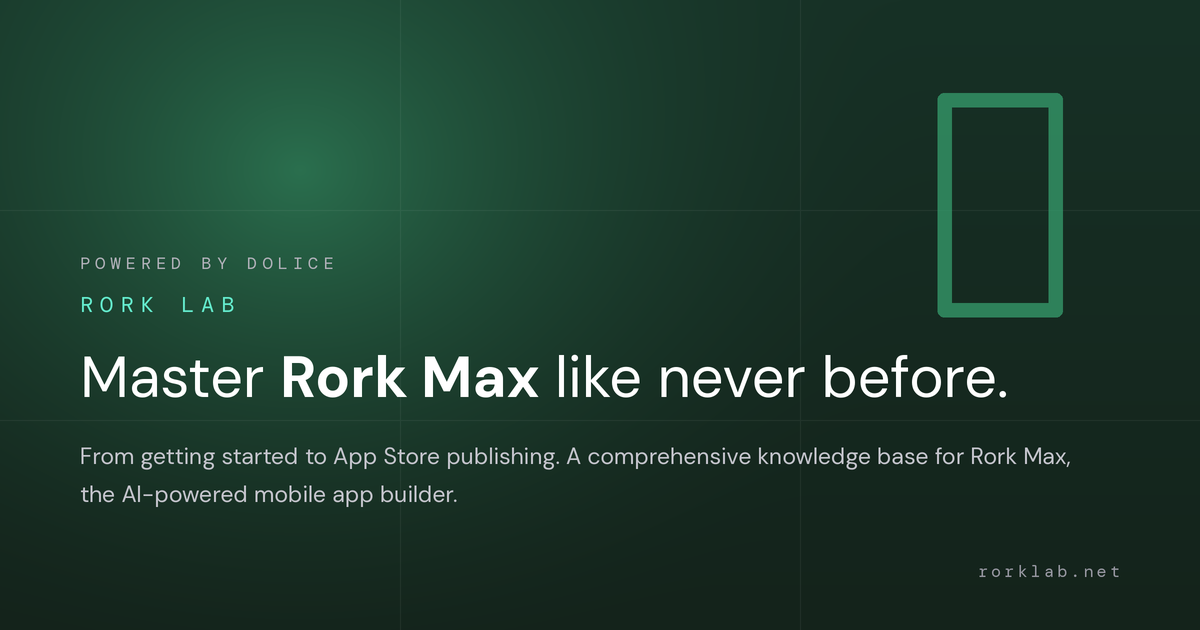
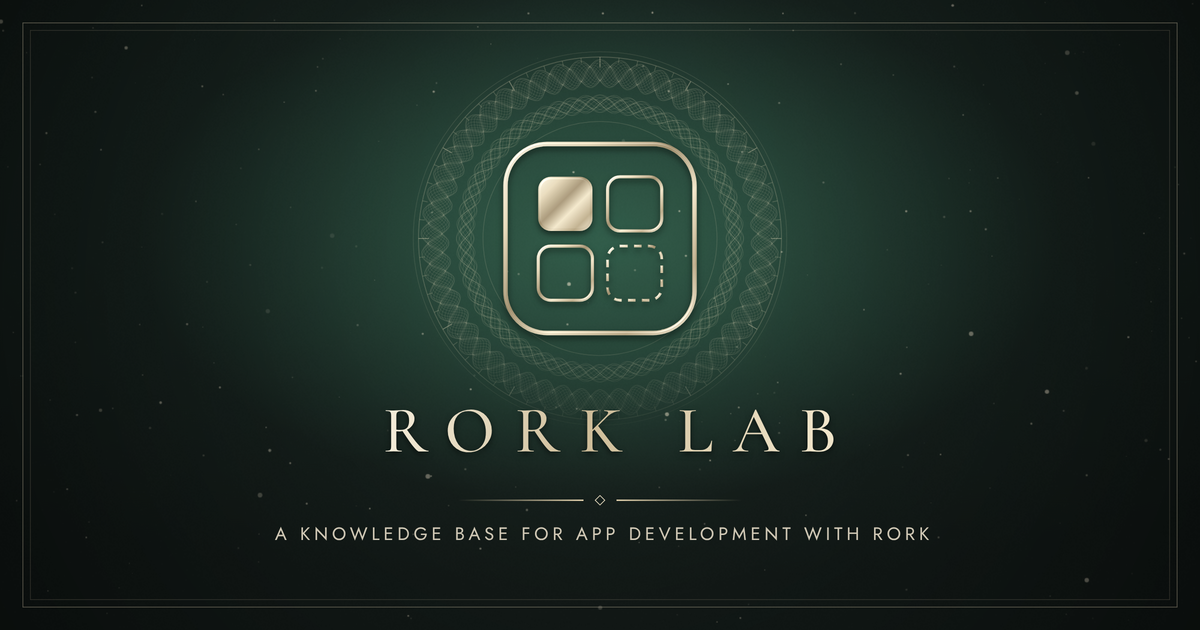
og: サイト共通 OGP を dolice.net の Labs カードと同じ意匠に差し替え（1200×630・日英）・?v=3 で SNS キャッシュ更新
Claude-Session: https://claude.ai/code/session_01HiCj6fCTc7KtopTq5qBR5S

diff --git a/src/lib/og.ts b/src/lib/og.ts
@@ -3,13 +3,16 @@ import ogArticles from "@/generated/og-articles.json";
 /**
  * OGP 画像（1200×630）。日英で別の画像を返す。
  * 旧 /og/default.png（1200×1200 正方形）は横長カードで下部の文字が切れるため 2026-10-23 に置き換え。
- * 画像は public/og/site-ja.png・site-en.png（生成元: Dolice Labs/_material/og/gen_site_og.py）。
+ * 画像は public/og/site-ja.png・site-en.png（2026-11-03 v3: dolice.net の Labs カードと同じ意匠・
+ * 生成元 Dolice Labs/_material/og/gen_site_og_v3.py）。画像を差し替えたら SITE_OG_VER を上げる（SNS のキャッシュ更新）。
  */
 export const OG_WIDTH = 1200;
 export const OG_HEIGHT = 630;
 
+export const SITE_OG_VER = "3";
+
 export function siteOgImage(locale: string): string {
-  return `https://rorklab.net/og/site-${locale === "ja" ? "ja" : "en"}.png`;
+  return `https://rorklab.net/og/site-${locale === "ja" ? "ja" : "en"}.png?v=${SITE_OG_VER}`;
 }
 
 /**

diff --git a/src/app/layout.tsx b/src/app/layout.tsx
@@ -27,7 +27,7 @@ export const metadata: Metadata = {
     description:
       "Rork Max の使い方・開発ツール連携・AI モデル統合・収益化まで。初心者〜上級者向け日英ナレッジベース。",
     url: "https://rorklab.net",
-    images: [{ url: "https://rorklab.net/og/site-ja.png", width: 1200, height: 630, alt: "Rork Lab", type: "image/png" }],
+    images: [{ url: "https://rorklab.net/og/site-ja.png?v=3", width: 1200, height: 630, alt: "Rork Lab", type: "image/png" }],
   },
   twitter: {
     card: "summary_large_image",

diff --git a/src/app/api/oembed/route.ts b/src/app/api/oembed/route.ts
@@ -2,7 +2,7 @@ import { NextRequest, NextResponse } from "next/server";
 
 const SITE_NAME = "Rork Lab";
 const SITE_URL = "https://rorklab.net";
-const OG_IMAGE = `${SITE_URL}/og/site-ja.png`;
+const OG_IMAGE = `${SITE_URL}/og/site-ja.png?v=3`;
 
 export async function GET(request: NextRequest) {
   const url = request.nextUrl.searchParams.get("url");
